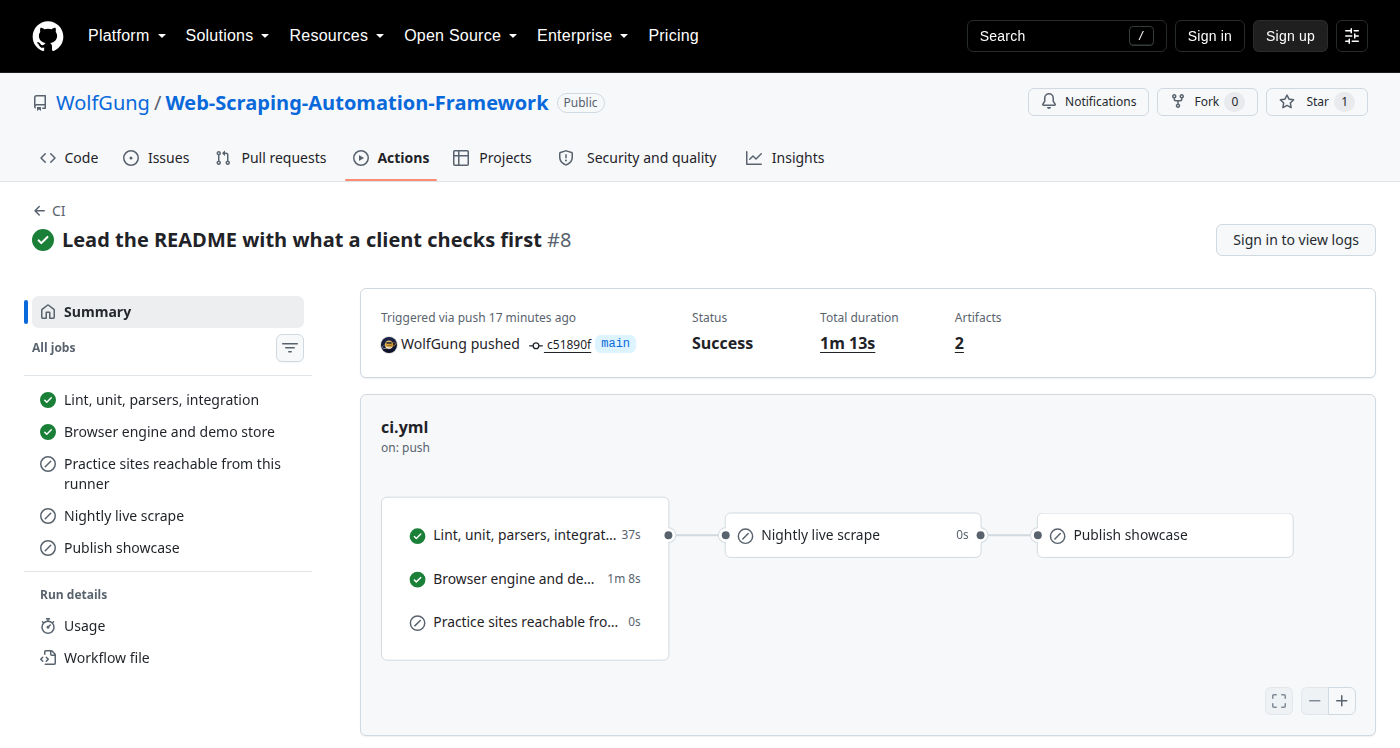
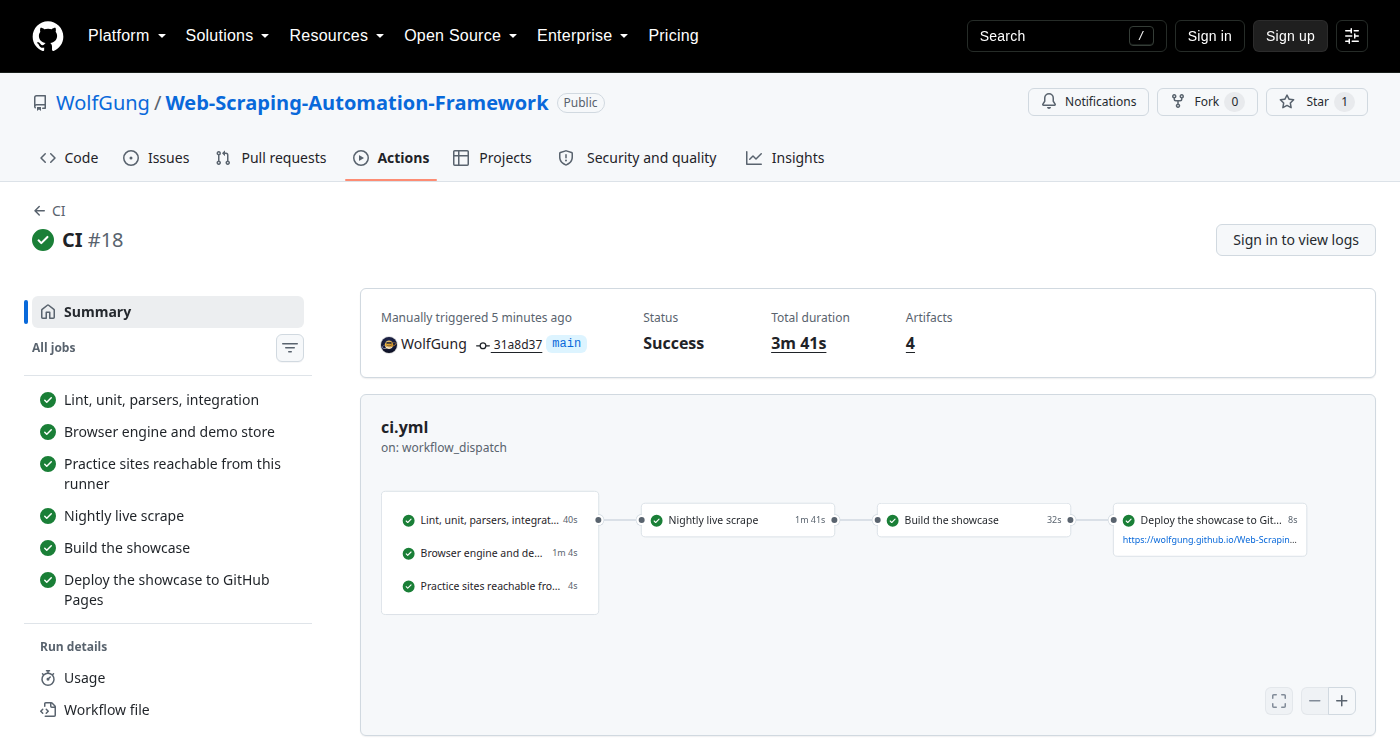
Photograph the run that published the workbook
The README's picture of the workflow showed a push run with the live scrape and the showcase skipped. It now shows the manual run that scraped, built and deployed the site with the Excel workbook: all six jobs green, including the deploy step with the site address on it. The link under the picture points at that run, and the alt text says the summary panel names who started the run, since a manual run is started rather than pushed.

diff --git a/README.md b/README.md
@@ -32,7 +32,7 @@ Counted by `pytest --collect-only`, and pinned by [`tests/unit/test_readme_pins.
 
 That is the report a local run produces, from `pytest --alluredir` and `allure generate`. [The published one](https://wolfgung.github.io/Web-Scraping-Automation-Framework/report/) is the same report built from all three CI jobs' results merged together, with the trend carried over from the previous publication — click the picture to open it.
 
-[![The workflow's run page on GitHub, seen logged out: a green check beside the run's title, "Success" in the summary panel beside who pushed it and how long it took, and every job of the workflow listed down the side and in the graph.](showcase/images/ci-run.png)](https://github.com/WolfGung/Web-Scraping-Automation-Framework/actions/runs/35781328461)
+[![The workflow's run page on GitHub, seen logged out: a green check beside the run's title, "Success" in the summary panel beside who started it and how long it took, and every job of the workflow listed down the side and in the graph.](showcase/images/ci-run.png)](https://github.com/WolfGung/Web-Scraping-Automation-Framework/actions/runs/35883495531)
 
 That is the run behind the badge at the top of this page, as a visitor sees it — `PYTHONPATH=. python scripts/make-assets.py --ci-run` photographs it again, and refuses a run that is not green rather than committing a picture of one.
 
